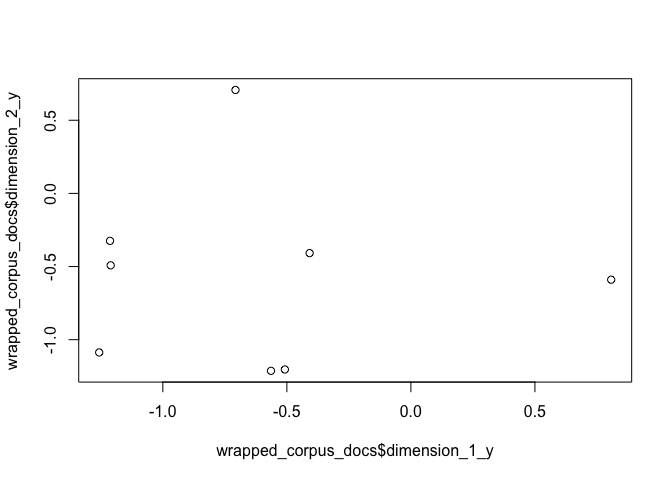
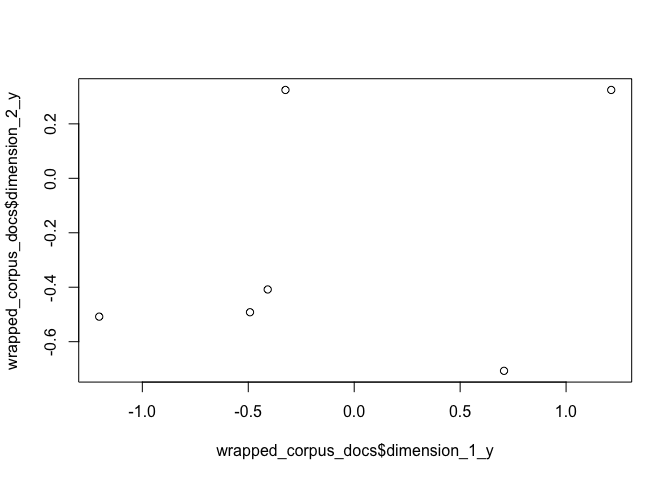
sklearn LSI + regression

diff --git a/README.md b/README.md
@@ -42,7 +42,7 @@ optimized word2vec routines (70x speedup compared to plain NumPy
 implementation).*
 
 ``` r
-gensimr::install_gensim()
+gensimr::install_dependencies()
 ```
 
 Ideally one should use a virtual environment and pass it to
@@ -56,8 +56,7 @@ my_env <- "./env"
 args <- paste("-m venv", env)
 system2("python3", args) # create environment
 reticulate::use_virtualenv(my_env) # force reticulate to use env
-gensimr::install_gensim(my_env) # install gensim in environment
-gensimr::install_sklearn(my_env) # install if you want to use the sklearn API
+gensimr::install_dependencies(my_env) # install gensim & scikit-learn in environment
 ```
 
 ## Preprocessing
@@ -127,7 +126,7 @@ should manually delete it with `delete_mmcorpus`.
 
 ``` r
 (corpus_mm <- serialize_mmcorpus(corpus_bow, auto_delete = FALSE))
-#> ℹ Path: /var/folders/n9/ys9t1h091jq80g4hww24v8g0n7v578/T//RtmprgOYUV/file2bd37ec89b4f.mm 
+#> ℹ Path: /var/folders/n9/ys9t1h091jq80g4hww24v8g0n7v578/T//RtmpLe2BXB/file3ba04c6e0dd1.mm 
 #>  ✔ Temp file
 #>  ✖ Delete after use
 ```
@@ -161,7 +160,7 @@ Note that we use the transformed corpus.
 lsi <- model_lsi(corpus_transformed, id2word = dictionary)
 #> ⚠ Low number of topics
 lsi$print_topics()
-#> [(0, '0.703*"trees" + 0.538*"graph" + 0.402*"minors" + 0.187*"survey" + 0.061*"system" + 0.060*"response" + 0.060*"time" + 0.058*"user" + 0.049*"computer" + 0.035*"interface"'), (1, '0.460*"system" + 0.373*"user" + 0.332*"eps" + 0.328*"interface" + 0.320*"time" + 0.320*"response" + 0.293*"computer" + 0.280*"human" + 0.171*"survey" + -0.161*"trees"')]
+#> [(0, '0.703*"trees" + 0.538*"graph" + 0.402*"minors" + 0.187*"survey" + 0.061*"system" + 0.060*"response" + 0.060*"time" + 0.058*"user" + 0.049*"computer" + 0.035*"interface"'), (1, '-0.460*"system" + -0.373*"user" + -0.332*"eps" + -0.328*"interface" + -0.320*"time" + -0.320*"response" + -0.293*"computer" + -0.280*"human" + -0.171*"survey" + 0.161*"trees"')]
 ```
 
 We can then wrap the model around the corpus to extract further
@@ -174,15 +173,15 @@ wrapped_corpus <- wrap(lsi, corpus_transformed)
 #> # A tibble: 9 x 4
 #>   dimension_1_x dimension_1_y dimension_2_x dimension_2_y
 #>           <dbl>         <dbl>         <dbl>         <dbl>
-#> 1             0        0.0660             1        0.520 
-#> 2             0        0.197              1        0.761 
-#> 3             0        0.0899             1        0.724 
-#> 4             0        0.0759             1        0.632 
-#> 5             0        0.102              1        0.574 
-#> 6             0        0.703              1       -0.161 
-#> 7             0        0.877              1       -0.168 
-#> 8             0        0.910              1       -0.141 
-#> 9             0        0.617              1        0.0539
+#> 1             0        0.0660             1       -0.520 
+#> 2             0        0.197              1       -0.761 
+#> 3             0        0.0899             1       -0.724 
+#> 4             0        0.0759             1       -0.632 
+#> 5             0        0.102              1       -0.574 
+#> 6             0        0.703              1        0.161 
+#> 7             0        0.877              1        0.168 
+#> 8             0        0.910              1        0.141 
+#> 9             0        0.617              1       -0.0539
 plot(wrapped_corpus_docs$dimension_1_y, wrapped_corpus_docs$dimension_2_y)
 ```
 
@@ -223,26 +222,26 @@ hdp <- model_hdp(corpus_mm, id2word = dictionary)
 reticulate::py_to_r(hdp$show_topic(topic_id = 1L, topn = 5L))
 #> [[1]]
 #> [[1]][[1]]
-#> [1] "survey"
+#> [1] "minors"
 #> 
 #> [[1]][[2]]
-#> [1] 0.2299116
+#> [1] 0.3597225
 #> 
 #> 
 #> [[2]]
 #> [[2]][[1]]
-#> [1] "minors"
+#> [1] "user"
 #> 
 #> [[2]][[2]]
-#> [1] 0.2039398
+#> [1] 0.1515091
 #> 
 #> 
 #> [[3]]
 #> [[3]][[1]]
-#> [1] "interface"
+#> [1] "human"
 #> 
 #> [[3]][[2]]
-#> [1] 0.1803729
+#> [1] 0.1035317
 #> 
 #> 
 #> [[4]]
@@ -250,15 +249,15 @@ reticulate::py_to_r(hdp$show_topic(topic_id = 1L, topn = 5L))
 #> [1] "computer"
 #> 
 #> [[4]][[2]]
-#> [1] 0.07612692
+#> [1] 0.09624662
 #> 
 #> 
 #> [[5]]
 #> [[5]][[1]]
-#> [1] "time"
+#> [1] "eps"
 #> 
 #> [[5]][[2]]
-#> [1] 0.069968
+#> [1] 0.09224965
 ```
 
 ### Log Entropy
@@ -334,16 +333,16 @@ Then extract the topics for each author.
 
 ``` r
 atmodel$get_author_topics("jack") # native for single author 
-#> [(0, 0.19906505032758703), (1, 0.800934949672413)]
+#> [(0, 0.12746929174418148), (1, 0.8725307082558185)]
 
 # apply to all authors
 get_author_topics(atmodel)
 #> # A tibble: 3 x 5
 #>   authors dimension_1_x dimension_1_y dimension_2_x dimension_2_y
 #>   <chr>           <dbl>         <dbl>         <dbl>         <dbl>
-#> 1 jack                0         0.199             1         0.801
-#> 2 jane                0         0.538             1         0.462
-#> 3 john                0         0.264             1         0.736
+#> 1 jack                0         0.127             1         0.873
+#> 2 jane                0         0.118             1         0.882
+#> 3 john                0         0.701             1         0.299
 ```
 
 ## External Data & Models
@@ -468,7 +467,7 @@ Now we can explore the model.
 
 ``` r
 word2vec$wv$most_similar(positive = c("interface"))
-#> [('minors', 0.09402473270893097), ('trees', 0.09294942021369934), ('system', 0.07501131296157837), ('computer', 0.03396868705749512), ('user', -0.034138455986976624), ('human', -0.0867367833852768), ('survey', -0.09057703614234924), ('eps', -0.09393233805894852), ('graph', -0.1599176824092865), ('response', -0.18416160345077515)]
+#> [('human', 0.11428181827068329), ('response', 0.09944403916597366), ('system', 0.09674327075481415), ('trees', 0.0896456316113472), ('graph', 0.07361666858196259), ('computer', 0.03268759697675705), ('time', 0.012654841877520084), ('survey', -0.0009265393018722534), ('user', -0.011915519833564758), ('eps', -0.18456944823265076)]
 ```
 
 We expect “trees” to be the odd one out, it is a term that was in a
@@ -476,16 +475,16 @@ different topic (\#2) whereas other terms were in topics \#1.
 
 ``` r
 word2vec$wv$doesnt_match(c("human", "interface", "trees"))
-#> interface
+#> trees
 ```
 
 Test similarity between words.
 
 ``` r
 word2vec$wv$similarity("human", "trees")
-#> 0.09393059
+#> -0.010961959
 word2vec$wv$similarity("eps", "system")
-#> -0.09023158
+#> -0.039019916
 ```
 
 Clean up, delete the corpus.
@@ -516,7 +515,7 @@ atmodel <- sklearn_at(
 unlink(temp, recursive = TRUE)
 
 atmodel$fit(corpus_bow)$transform("jack")
-#> [[0.91516125 0.08483876]]
+#> [[0.18626782 0.8137322 ]]
 ```
 
 ### Doc2vec
@@ -533,7 +532,7 @@ hdp <- sklearn_hdp(id2word = dictionary)
 vectors <- hdp$fit_transform(corpus_bow)
 ```
 
-## Latent Dirichlet Allocation
+### Latent Dirichlet Allocation
 
 ``` r
 lda <- sklearn_lda(
@@ -543,4 +542,26 @@ lda <- sklearn_lda(
   random_state = 1
 )
 vectors <- hdp$fit_transform(corpus_bow)
+```
+
+### Latent Semantic Indexing
+
+Create stages for our pipeline (including gensim and sklearn models
+alike).
+
+``` r
+lsi <- sklearn_lsi(id2word = dictionary, num_topics = 15L)
+
+# L2 reg classifier
+clf <- sklearn_logistic(penalty = "l2", C = 0.1)
+
+# sklearn pipepline
+pipe <- sklearn_pipeline(lsi, clf)
+
+# Create some random binary labels for our documents.
+labels <- sample(c(0L, 1L), 9, replace = TRUE)
+
+# How well does our pipeline perform on the training set?
+pipe$fit(corpus_bow, labels)$score(corpus_bow, labels)
+#> 0.6666666666666666
 ```
